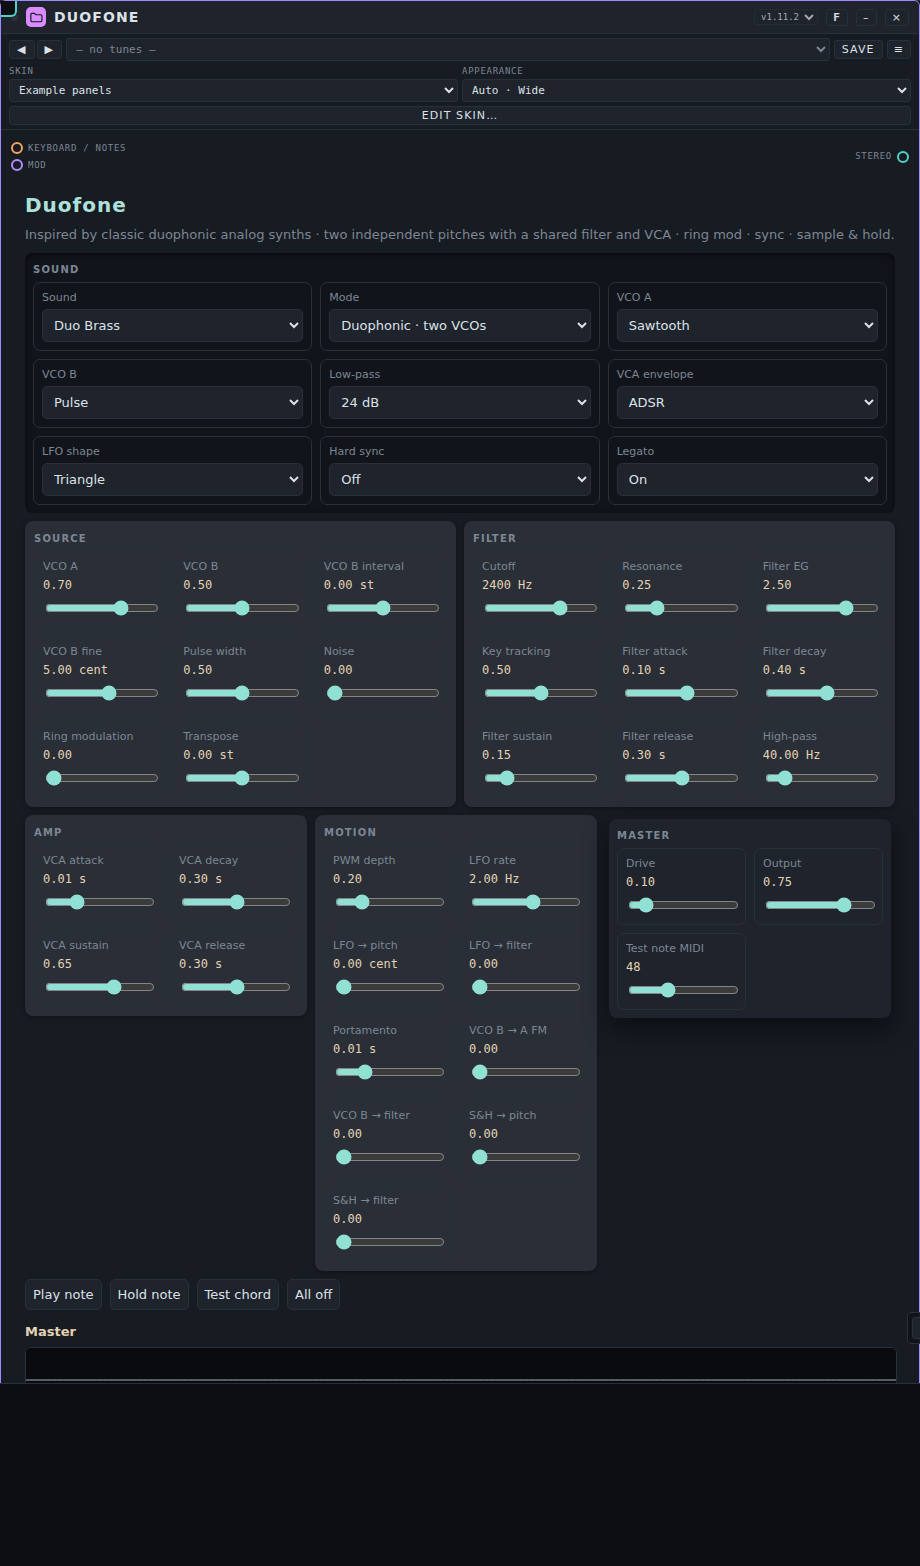
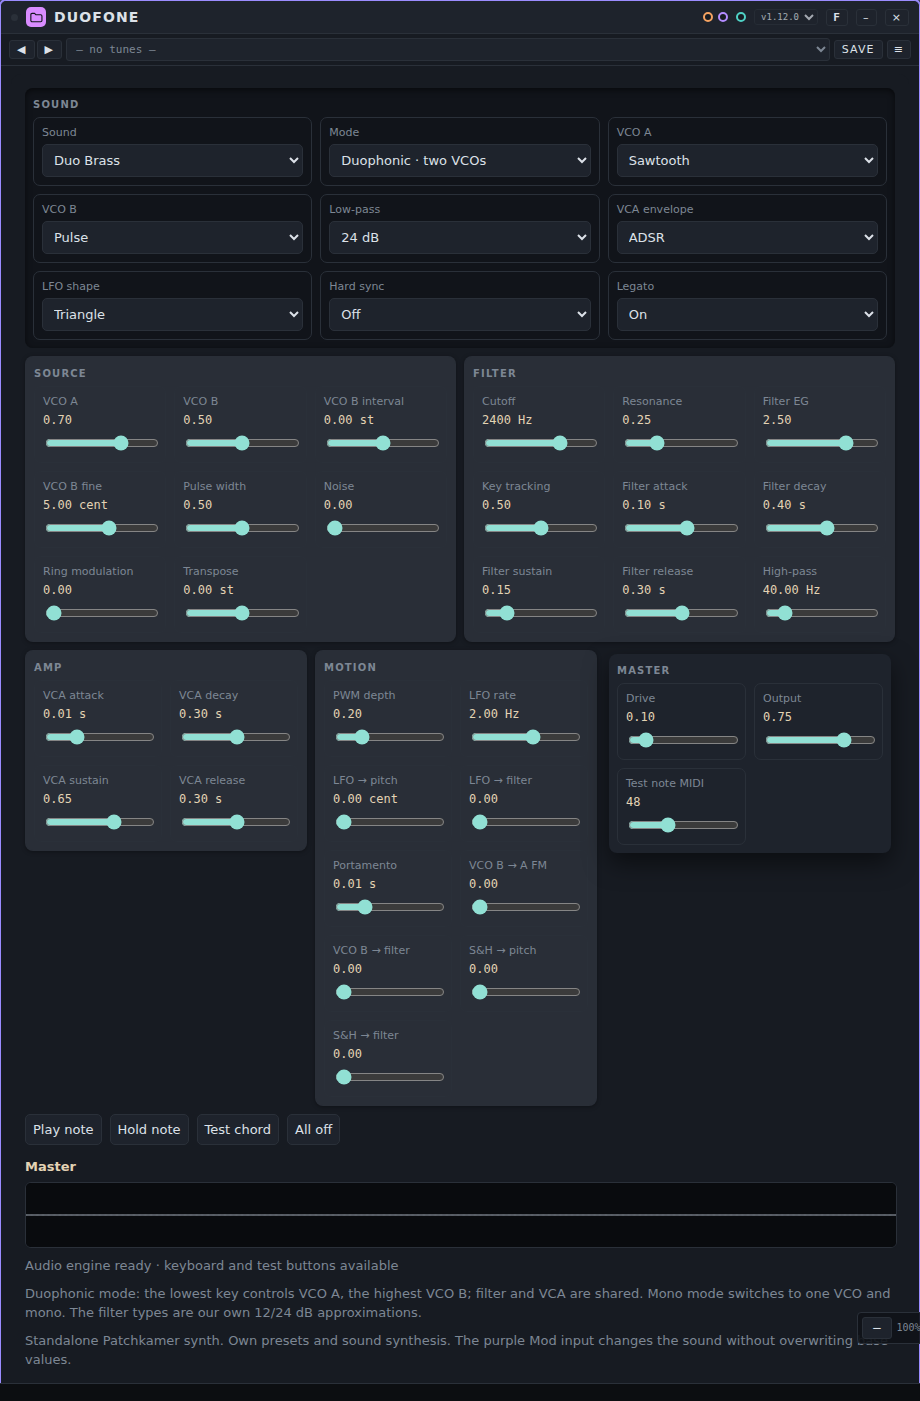
Skin-screenshots 14 tot 17 ververst (NL en EN); schermafbeeldingenscript slaat ze weer op; host 0.25.1

diff --git a/docs/tools/make-screenshots.py b/docs/tools/make-screenshots.py
@@ -160,7 +160,8 @@ def shots(browser, lang, OUT, LIB, BASE):
         pg = newpage(h=1500, nopicker=True); load_lib(pg); place(pg, dev); pg.click('#libToggle'); pg.wait_for_timeout(1500)
         sf = os.path.join(ROOT, 'skins', 'library', skinf + '.patchkamer-skin.json'); sid = json.load(open(sf))['id']
         menu_click(pg, '#skBtn'); pg.set_input_files('#skFile', sf); pg.wait_for_timeout(800); pg.is_visible('#skClose') and pg.click('#skClose'); pg.wait_for_timeout(300)
-        pg.evaluate("sid=>{const s=document.querySelector('.sksel'); s.value=sid; s.dispatchEvent(new Event('change',{bubbles:true}))}", sid); pg.wait_for_timeout(1200)   # de keuzelijst Skin staat in het kaartmenu: zet hem direct; pg.locator('.card').first.screenshot(path=OUT + '/' + name + '.png'); done(pg)
+        pg.evaluate("sid=>{const s=document.querySelector('.sksel'); s.value=sid; s.dispatchEvent(new Event('change',{bubbles:true}))}", sid); pg.wait_for_timeout(1200)
+        pg.locator('.card').first.screenshot(path=OUT + '/' + name + '.png'); done(pg)   # de keuzelijst Skin staat in het kaartmenu: zet hem direct
     clip_docs()
     print('klaar:', lang, len(os.listdir(OUT)), 'afbeeldingen')
 

diff --git a/CHANGELOG_NL.md b/CHANGELOG_NL.md
@@ -4,6 +4,11 @@
 
 Alle belangrijke wijzigingen in Patchkamer (de host en de desktop-app) per versie. Het versienummer staat in `patchkamer/version.json` en onder **Instellingen > Versie**. Oudere geschiedenis staat in het git-log.
 
+## 0.25.1 (2026-11-09)
+
+### Gewijzigd
+- **Skin-screenshots 14 tot 17 ververst (NL en EN)** (Duofone met panelen, Drum Machine met ronde pads en met schermpje, Mixer met meters): de kaarten zijn lager doordat de poorten nu in de titelbalk staan. Het schermafbeeldingenscript maakte deze vier nooit opnieuw, omdat de regel die ze opslaat in een commentaar stond; dat is hersteld.
+
 ## 0.25.0 (2026-11-09)
 
 ### Gewijzigd

diff --git a/CHANGELOG.md b/CHANGELOG.md
@@ -4,6 +4,11 @@
 
 All notable changes to Patchkamer (the host and the desktop app) per version. The version number is in `patchkamer/version.json` and shown under **Settings > Version**. Older history is in the git log.
 
+## 0.25.1 (2026-11-09)
+
+### Changed
+- **Skin screenshots 14 to 17 refreshed (NL and EN)** (Duofone with panels, Drum Machine with round pads and with a display, Mixer with meters): the cards are lower because the ports are now in the title bar. The screenshot script never remade these four, because the line that saves them was inside a comment; that is fixed.
+
 ## 0.25.0 (2026-11-09)
 
 ### Changed
